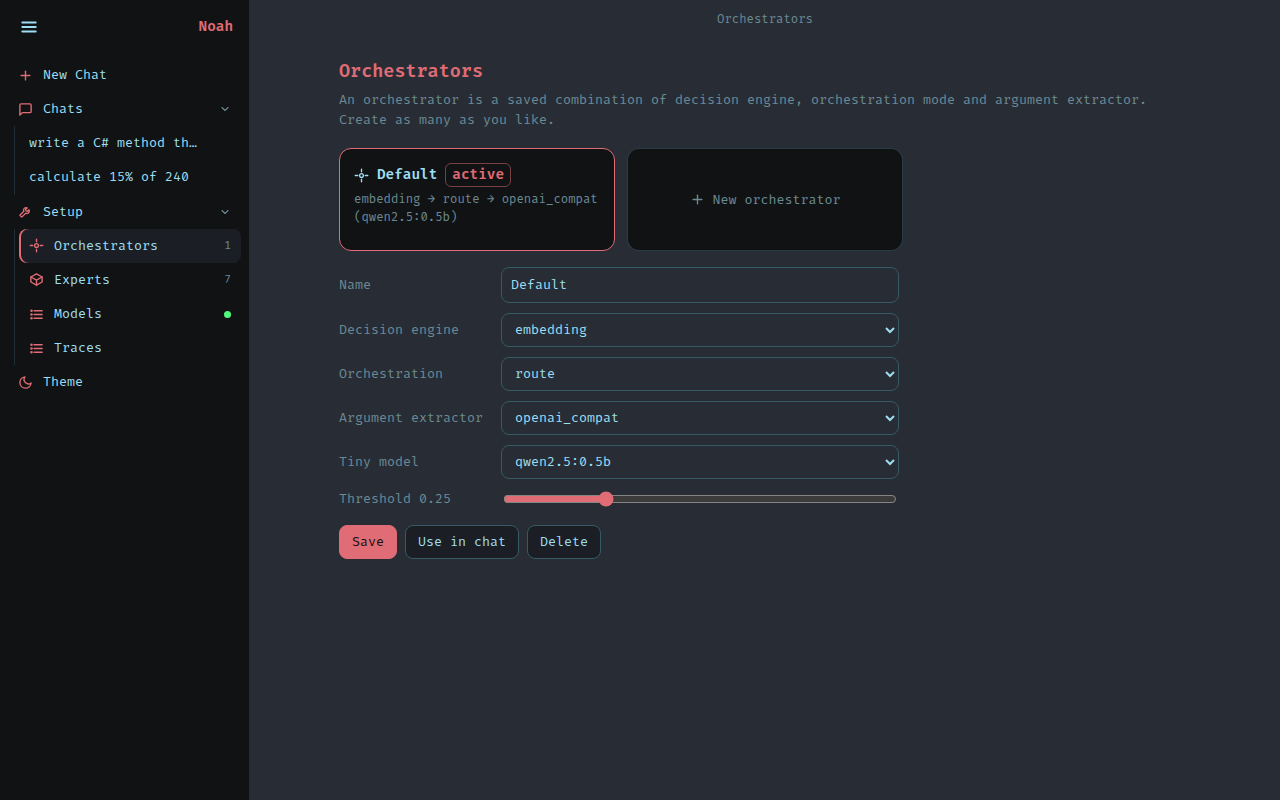
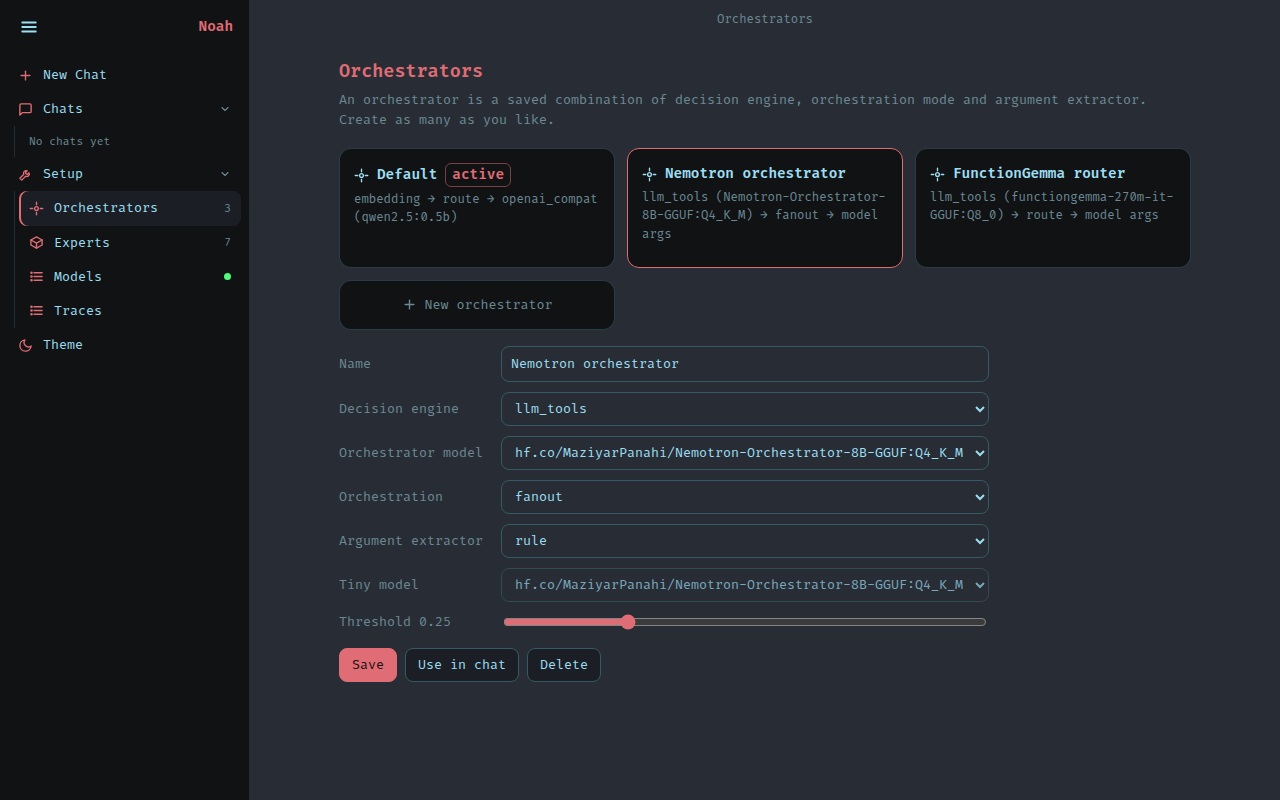
Added Nemotron-Orchestrator-8B and functiongemma-270m

diff --git a/noah/web/static/app.js b/noah/web/static/app.js
@@ -29,6 +29,7 @@ let profiles = [];
 let chats = store.get('chats', []);
 let currentChat = store.get('current', null);
 let activeProfile = store.get('profile', 'Default');
+const shortModel = m => String(m || '').replace(/^hf\.co\//, '').split('/').pop();
 let view = 'chat', editing = null, busy = false;
 
 /* ---------- sidebar ---------- */
@@ -118,7 +119,7 @@ async function send() {
   const m = { text, pending: true }; c.messages.push(m); renderChat(); renderSidebar(); $('title').textContent = c.title;
   try {
     const r = await fetch('/api/ask', { method: 'POST', headers: { 'Content-Type': 'application/json' }, body: JSON.stringify({
-      message: text, engine: p.engine, mode: p.mode, extractor: p.extractor, model: p.model, threshold: p.threshold }) });
+      message: text, engine: p.engine, engine_model: p.engine_model || '', mode: p.mode, extractor: p.extractor, model: p.model, threshold: p.threshold }) });
     if (!r.ok) throw new Error('server error ' + r.status);
     Object.assign(m, await r.json(), { profile: p.name, engine: p.engine });
   } catch (err) { m.error = err.message; }
@@ -133,21 +134,23 @@ function renderOrch() {
   const opts = (items, v) => items.map(i => `<option ${i === v ? 'selected' : ''}>${esc(i)}</option>`).join('');
   $('orchPanel').innerHTML = `<h2>Orchestrators</h2><p class="lede">An orchestrator is a saved combination of decision engine, orchestration mode and argument extractor. Create as many as you like.</p>
     <div class="cards">${profiles.map((x, i) => `<div class="card ${i === editing ? 'sel' : ''}" data-edit="${i}"><h3>${svg('cpu')}${esc(x.name)}${x.name === activeProfile ? '<span class="badge">active</span>' : ''}</h3>
-      <p>${esc(x.engine)} → ${esc(x.mode)} → ${esc(x.extractor)}${x.extractor === 'openai_compat' ? ' (' + esc(x.model) + ')' : ''}</p></div>`).join('')}
+      <p>${esc(x.engine)}${x.engine === 'llm_tools' ? ' (' + esc(shortModel(x.engine_model)) + ')' : ''} → ${esc(x.mode)} → ${x.engine === 'llm_tools' ? 'model args' : esc(x.extractor) + (x.extractor === 'openai_compat' ? ' (' + esc(x.model) + ')' : '')}</p></div>`).join('')}
       <div class="card" data-new style="cursor:pointer;display:flex;align-items:center;justify-content:center;color:var(--muted)">${svg('plus')}&nbsp;New orchestrator</div></div>
     <div class="form">
       <label>Name</label><input id="f-name" value="${esc(p.name)}">
       <label>Decision engine</label><select id="f-engine">${opts(cfg.engines, p.engine)}</select>
+      <label id="l-em" ${p.engine === 'llm_tools' ? '' : 'hidden'}>Orchestrator model</label><select id="f-em" ${p.engine === 'llm_tools' ? '' : 'hidden'}>${opts(cfg.models.length ? cfg.models : [p.engine_model || ''], p.engine_model || '')}</select>
       <label>Orchestration</label><select id="f-mode">${opts(cfg.modes, p.mode)}</select>
       <label>Argument extractor</label><select id="f-extractor">${opts(cfg.extractors, p.extractor)}</select>
-      <label>Tiny model</label><select id="f-model" ${p.extractor === 'openai_compat' ? '' : 'disabled'}>${opts(cfg.models.length ? cfg.models : [p.model], p.model)}</select>
+      <label>Tiny model</label><select id="f-model" ${p.extractor === 'openai_compat' ? '' : 'disabled'}><option value="" ${p.model ? '' : 'selected'}>—</option>${opts(cfg.models.length ? cfg.models : [p.model], p.model)}</select>
       <label>Threshold <span id="f-thv">${p.threshold}</span></label><input type="range" id="f-threshold" min="0" max="1" step="0.05" value="${p.threshold}">
     </div>
     <div class="actions"><button class="btn primary" id="f-save">Save</button><button class="btn" id="f-use">Use in chat</button><button class="btn danger" id="f-del" ${profiles.length < 2 ? 'disabled' : ''}>Delete</button></div>`;
+  $('f-engine').onchange = () => { const on = $('f-engine').value === 'llm_tools'; $('l-em').hidden = $('f-em').hidden = !on; };
   $('f-extractor').onchange = () => { $('f-model').disabled = $('f-extractor').value !== 'openai_compat'; };
   $('f-threshold').oninput = () => { $('f-thv').textContent = $('f-threshold').value; };
   const collect = () => { const old = p.name; Object.assign(p, { name: $('f-name').value.trim() || old, engine: $('f-engine').value, mode: $('f-mode').value,
-    extractor: $('f-extractor').value, model: $('f-model').value, threshold: parseFloat($('f-threshold').value) }); if (activeProfile === old) activeProfile = p.name; store.set('profile', activeProfile); };
+    extractor: $('f-extractor').value, model: $('f-model').value, engine_model: $('f-em').value, threshold: parseFloat($('f-threshold').value) }); if (activeProfile === old) activeProfile = p.name; store.set('profile', activeProfile); };
   $('f-save').onclick = async () => { collect(); await saveProfiles(); renderOrch(); renderSidebar(); };
   $('f-use').onclick = async () => { collect(); activeProfile = p.name; store.set('profile', activeProfile); await saveProfiles(); show('chat'); };
   $('f-del').onclick = async () => { profiles.splice(editing, 1); editing = 0; if (!profiles.find(x => x.name === activeProfile)) activeProfile = profiles[0].name; await saveProfiles(); renderOrch(); renderSidebar(); };
@@ -165,9 +168,16 @@ function renderExperts() {
       <details><summary>examples</summary>${e.examples.map(x => `<div><code>${esc(x)}</code></div>`).join('')}</details></div>`).join('')}</div>`;
 }
 function renderModels() {
-  const used = m => profiles.filter(p => p.extractor === 'openai_compat' && p.model === m).map(p => p.name).join(', ') || '—';
+  const norm = m => { m = String(m || ''); return m && !m.split('/').pop().includes(':') ? m + ':latest' : m; };  // "x" == "x:latest"
+  const orchestrators = m => profiles.flatMap(p => [
+    ...(p.engine === 'llm_tools' && norm(p.engine_model) === norm(m) ? [`${p.name} (orchestrator)`] : []),
+    ...(p.engine !== 'llm_tools' && p.extractor === 'openai_compat' && norm(p.model) === norm(m) ? [`${p.name} (extractor)`] : []),
+  ]);
+  const experts = m => cfg.experts.filter(e => e.kind === 'generate' && norm(e.model) === norm(m)).map(e => e.name);
+  const cell = list => list.length ? list.map(x => `<div>${esc(x)}</div>`).join('') : '<span class="meta">—</span>';
   $('modelsPanel').innerHTML = `<h2>Models</h2><p class="lede">Local models served by Ollama. Pull more with <code>ollama pull &lt;name&gt;</code>; any OpenAI-compatible server works through the same extractor.</p>
-    ${cfg.models.length ? `<table><tr><th>Model</th><th>Used by orchestrators</th></tr>${cfg.models.map(m => `<tr><td>${esc(m)}</td><td>${esc(used(m))}</td></tr>`).join('')}</table>` : '<p class="lede">No local models found. Is Ollama running?</p>'}`;
+    ${cfg.models.length ? `<table><tr><th>Model</th><th>Used by orchestrators</th><th>Used by experts</th></tr>${cfg.models.map(m =>
+      `<tr><td>${esc(m)}</td><td>${cell(orchestrators(m))}</td><td>${cell(experts(m))}</td></tr>`).join('')}</table>` : '<p class="lede">No local models found. Is Ollama running?</p>'}`;
 }
 async function renderTraces() {
   const t = await (await fetch('/api/traces?limit=100')).json();

diff --git a/noah/engines/llm_tools.py b/noah/engines/llm_tools.py
@@ -1,0 +1,71 @@
+from __future__ import annotations
+
+import json
+import re
+
+import httpx
+
+from ..types import Decision, Expert
+
+NONE_TOOL = "none"
+_FG_CALL = re.compile(r"call:(\w+)\{(.*?)(?:\}|<end_function_call>|$)", re.S)  # closing brace may be missing
+_FG_PARAM = re.compile(r"(\w+):(?:<escape>(.*?)<escape>|([^,}]*))", re.S)
+
+
+def expert_tools(experts: dict[str, Expert]) -> list[dict]:
+    """Experts as OpenAI-style tools, plus an explicit 'none' so the model can decline."""
+    tools = []
+    for e in experts.values():
+        params = e.parameters if e.parameters.get("properties") else {
+            "type": "object", "properties": {"request": {"type": "string", "description": "the user's request"}},
+            "required": ["request"]}
+        tools.append({"type": "function", "function": {"name": e.name, "description": e.description, "parameters": params}})
+    tools.append({"type": "function", "function": {
+        "name": NONE_TOOL, "description": "Call this when none of the other tools fits the request.",
+        "parameters": {"type": "object", "properties": {}}}})
+    return tools
+
+
+def parse_functiongemma(text: str) -> list[tuple[str, dict]]:
+    """FunctionGemma emits `call:name{key:<escape>value<escape>,n:3}` as plain text."""
+    calls = []
+    for name, body in _FG_CALL.findall(text or ""):
+        args = {}
+        for key, escaped, bare in _FG_PARAM.findall(body):
+            val = escaped if escaped or not bare.strip() else bare.strip()
+            try:
+                args[key] = json.loads(val) if not escaped and val and val[0] in '-0123456789[{"tf' else val
+            except ValueError:
+                args[key] = val
+        calls.append((name, args))
+    return calls
+
+
+class LLMToolsEngine:
+    """Decision engine + argument extractor in one: a tool-calling LLM picks the expert(s) itself.
+
+    Works with native tool calls (Nemotron-Orchestrator, Qwen, Llama ...) and with FunctionGemma's text format.
+    """
+
+    def __init__(self, base_url: str = "http://localhost:11434/v1", model: str = "", timeout: float = 300.0):
+        self.base_url, self.model, self.timeout = base_url.rstrip("/"), model, timeout
+        self.name = "llm_tools"
+
+    def _calls(self, message: str, experts: dict[str, Expert]) -> list[tuple[str, dict]]:
+        r = httpx.post(f"{self.base_url}/chat/completions", timeout=self.timeout, json={
+            "model": self.model, "temperature": 0, "tools": expert_tools(experts),
+            "messages": [{"role": "user", "content": message}]})
+        r.raise_for_status()
+        msg = r.json()["choices"][0]["message"]
+        native = [(c["function"]["name"], c["function"]["arguments"]) for c in msg.get("tool_calls") or []]
+        if native:
+            return [(n, json.loads(a) if isinstance(a, str) else (a or {})) for n, a in native]
+        return parse_functiongemma(msg.get("content") or "")
+
+    def decide(self, message: str, experts: dict[str, Expert]) -> list[Decision]:
+        chosen: dict[str, Decision] = {}
+        for rank, (name, args) in enumerate(self._calls(message, experts)):
+            if name in experts and name not in chosen:
+                chosen[name] = Decision(name, round(1.0 - rank * 0.01, 2), args or None)
+        rest = [Decision(n, 0.0) for n in experts if n not in chosen]
+        return [*chosen.values(), *rest]

diff --git a/tests/test_llm_tools.py b/tests/test_llm_tools.py
@@ -1,0 +1,66 @@
+import asyncio
+
+import httpx
+import pytest
+
+from noah.engines.llm_tools import LLMToolsEngine, expert_tools, parse_functiongemma
+from noah.extractors import make_extractor
+from noah.orchestrator import Orchestrator
+from noah.registry import load_experts
+
+
+@pytest.fixture(scope="module")
+def experts():
+    return load_experts("experts")
+
+
+def fake_post(content=None, tool_calls=None):
+    def post(url, json=None, timeout=None):
+        body = {"choices": [{"message": {"content": content, "tool_calls": tool_calls}}]}
+        return httpx.Response(200, json=body, request=httpx.Request("POST", url))
+    return post
+
+
+def test_parse_functiongemma_forms():
+    assert parse_functiongemma("call:weather{city:<escape>Paris<escape>") == [("weather", {"city": "Paris"})]  # truncated
+    assert parse_functiongemma("<start_function_call>call:calc{expression:<escape>1+2<escape>}<end_function_call>") == [
+        ("calc", {"expression": "1+2"})]
+    assert parse_functiongemma("call:files{query:<escape>a<escape>,limit:5}") == [("files", {"query": "a", "limit": 5})]
+    assert parse_functiongemma("Sorry, I cannot help") == []
+
+
+def test_tools_include_none_and_synthesize_request_param(experts):
+    tools = {t["function"]["name"]: t["function"] for t in expert_tools(experts)}
+    assert "none" in tools
+    assert "request" in tools["csharp"]["parameters"]["properties"]  # generate experts have no params of their own
+    assert "city" in tools["weather"]["parameters"]["properties"]
+
+
+def test_engine_native_tool_calls_and_none(experts, monkeypatch):
+    calls = [{"function": {"name": "weather", "arguments": '{"city": "Oslo"}'}}]
+    monkeypatch.setattr(httpx, "post", fake_post(tool_calls=calls))
+    d = LLMToolsEngine(model="m").decide("weather in Oslo", experts)
+    assert d[0].expert == "weather" and d[0].args == {"city": "Oslo"} and d[0].score == 1.0
+    assert all(x.score == 0.0 for x in d[1:]) and len(d) == len(experts)
+
+    monkeypatch.setattr(httpx, "post", fake_post(tool_calls=[{"function": {"name": "none", "arguments": "{}"}}]))
+    assert all(x.score == 0.0 for x in LLMToolsEngine(model="m").decide("joke", experts))
+
+
+def test_engine_functiongemma_text_format(experts, monkeypatch):
+    monkeypatch.setattr(httpx, "post", fake_post(content="<start_function_call>call:calc{expression:<escape>2+2<escape>}"))
+    d = LLMToolsEngine(model="m").decide("2+2", experts)
+    assert d[0].expert == "calc" and d[0].args == {"expression": "2+2"}
+
+
+def test_orchestrator_uses_model_supplied_args_and_skips_extractor(experts, monkeypatch):
+    monkeypatch.setattr(httpx, "post", fake_post(tool_calls=[{"function": {"name": "calc", "arguments": '{"expression": "6*7"}'}}]))
+    orch = Orchestrator(experts, LLMToolsEngine(model="m"), make_extractor("rule"))
+    out = asyncio.run(orch.ask("whatever the user typed"))
+    assert out[0].expert == "calc" and out[0].extractor == "orchestrator" and "42" in out[0].output
+
+
+def test_no_expert_called_gives_no_match(experts, monkeypatch):
+    monkeypatch.setattr(httpx, "post", fake_post(content="I cannot help with that"))
+    orch = Orchestrator(experts, LLMToolsEngine(model="m"), make_extractor("rule"))
+    assert asyncio.run(orch.ask("tell me a joke"))[0].expert == "no_match"

diff --git a/noah/server.py b/noah/server.py
@@ -23,8 +23,18 @@ OLLAMA = os.environ.get("NOAH_LLM_URL", "http://localhost:11434")
 app = FastAPI(title="noah")
 app.mount("/static", StaticFiles(directory=WEB / "static"), name="static")
 PROFILES = Path(os.environ.get("NOAH_PROFILES", "data/profiles.json"))
-DEFAULT_PROFILES = [{"name": "Default", "engine": "embedding", "mode": "route", "extractor": "openai_compat",
-                     "model": "qwen2.5:0.5b", "threshold": 0.25}]
+DEFAULT_PROFILES = [
+    # bge-small cosine scores: in-domain >= 0.65, off-topic <= 0.61 on our test set, so 0.63 declines chit-chat.
+    {"name": "Default", "engine": "embedding", "mode": "route", "extractor": "openai_compat",
+     "model": "qwen2.5:0.5b", "threshold": 0.63},
+    # Example LLM orchestrators: the model picks the expert AND its arguments by tool calling.
+    # Pull first:  ollama pull hf.co/MaziyarPanahi/Nemotron-Orchestrator-8B-GGUF:Q4_K_M   (5 GB, slow on small GPUs)
+    {"name": "Nemotron orchestrator", "engine": "llm_tools", "mode": "fanout", "extractor": "rule", "model": "",
+     "engine_model": "hf.co/MaziyarPanahi/Nemotron-Orchestrator-8B-GGUF:Q4_K_M", "threshold": 0.25},
+    # Pull first:  ollama pull hf.co/ggml-org/functiongemma-270m-it-GGUF:Q8_0   (300 MB; needs fine-tuning to be reliable)
+    {"name": "FunctionGemma router", "engine": "llm_tools", "mode": "route", "extractor": "rule", "model": "",
+     "engine_model": "hf.co/ggml-org/functiongemma-270m-it-GGUF:Q8_0", "threshold": 0.25},
+]
 experts = load_experts(os.environ.get("NOAH_EXPERTS", "experts"))
 trace = TraceStore()
 _engines: dict[str, object] = {}  # engines can be expensive to load (embedding), so cache them
@@ -33,6 +43,7 @@ _engines: dict[str, object] = {}  # engines can be expensive to load (embedding)
 class AskRequest(BaseModel):
     message: str
     engine: str = "keyword"
+    engine_model: str = ""
     mode: str = "route"
     extractor: str = "rule"
     model: str = ""
@@ -56,7 +67,7 @@ def config():
     except Exception:
         models = []
     return {
-        "engines": ["keyword", "embedding"],
+        "engines": ["keyword", "embedding", "llm_tools"],
         "modes": ["route", "fanout"],
         "extractors": ["rule", "openai_compat"],
         "models": models,
@@ -68,10 +79,12 @@ def config():
 
 @app.post("/api/ask")
 async def ask(req: AskRequest):
-    if req.engine not in _engines:
-        _engines[req.engine] = make_engine(req.engine)
+    key = f"{req.engine}:{req.engine_model}"
+    if key not in _engines:
+        kw = {"base_url": f"{OLLAMA}/v1", "model": req.engine_model} if req.engine == "llm_tools" else {}
+        _engines[key] = make_engine(req.engine, **kw)
     kw = {"base_url": f"{OLLAMA}/v1", "model": req.model} if req.extractor == "openai_compat" else {}
-    orch = Orchestrator(experts, _engines[req.engine], make_extractor(req.extractor, **kw), trace,
+    orch = Orchestrator(experts, _engines[key], make_extractor(req.extractor, **kw), trace,
                         mode=req.mode, threshold=req.threshold, llm_url=f"{OLLAMA}/v1")
     results, decisions = await orch.ask_traced(req.message)
     return {"results": [asdict(r) for r in results], "decisions": [asdict(d) for d in decisions]}

diff --git a/noah/orchestrator.py b/noah/orchestrator.py
@@ -29,7 +29,7 @@ class Router(Executor):
 
     @handler
     async def route(self, message: str, ctx: WorkflowContext[Routed]) -> None:
-        decisions = self.engine.decide(message, self.experts)
+        decisions = await asyncio.to_thread(self.engine.decide, message, self.experts)  # LLM engines block for seconds
         self.seen["decisions"] = decisions
         ranked = [d for d in decisions if d.score >= self.threshold]
         if self.mode == "fanout":
@@ -61,7 +61,11 @@ class ExpertNode(Executor):
                     out = re.sub(pattern, "", out, flags=re.S | re.I)
                 out = re.sub(r"\n{3,}", "\n\n", out).strip()
             else:
-                args = await asyncio.to_thread(self.extractor.extract, routed.message, self.expert)
+                supplied = next((d.args for d in routed.decisions if d.expert == self.expert.name and d.args), None)
+                if supplied:  # an LLM orchestrator already produced the arguments: skip the extractor model call
+                    args, extractor = supplied, "orchestrator"
+                else:
+                    args = await asyncio.to_thread(self.extractor.extract, routed.message, self.expert)
                 validate_args(args, self.expert.parameters)
                 out = await asyncio.to_thread(self.expert.run, args)
         except Exception as e:

diff --git a/scripts/bench_orchestrators.py b/scripts/bench_orchestrators.py
@@ -1,0 +1,31 @@
+"""Score LLM tool-calling orchestrators on routing: python scripts/bench_orchestrators.py <ollama-model> [...]"""
+import sys
+import time
+
+from noah.engines.llm_tools import LLMToolsEngine
+from noah.registry import load_experts
+from tests.test_routing import LABELLED
+
+NEGATIVES = ["tell me a joke", "who won the world cup in 2010", "what's the capital of Australia", "hello there"]
+experts = load_experts("experts")
+cases = [(m, w) for m, w in LABELLED] + [(m, None) for m in NEGATIVES]
+
+for model in sys.argv[1:]:
+    eng = LLMToolsEngine(model=model)
+    ok, wrong, times = 0, [], []
+    for msg, want in cases:
+        t = time.time()
+        try:
+            d = eng.decide(msg, experts)
+            got = d[0].expert if d[0].score > 0 else None
+            args = d[0].args if got else None
+        except Exception as e:
+            got, args = f"ERR {type(e).__name__}", None
+        times.append(time.time() - t)
+        if got == want:
+            ok += 1
+        else:
+            wrong.append((msg, want, got, args))
+    print(f"\n{model}: {ok}/{len(cases)} correct, median {sorted(times)[len(times)//2]:.1f}s, max {max(times):.1f}s", flush=True)
+    for msg, want, got, args in wrong:
+        print(f"   miss: {msg!r}: wanted {want}, got {got} {args or ''}", flush=True)

diff --git a/tests/test_routing.py b/tests/test_routing.py
@@ -82,3 +82,13 @@ def test_bad_args_reported_not_raised(experts):
     orch = Orchestrator(experts, make_engine("keyword"), make_extractor("rule"), threshold=0.0)
     out = asyncio.run(orch.ask("weather"))  # no city -> rule extractor returns {} -> validation error
     assert out[0].error and "city" in out[0].error
+
+
+OFF_TOPIC = ["tell me a joke", "who won the world cup in 2010", "what's the capital of Australia", "hello there"]
+
+
+def test_embedding_declines_off_topic_at_default_threshold(experts):
+    """The default profile's threshold (0.63) must separate chit-chat from every labelled in-domain message."""
+    engine = make_engine("embedding")
+    assert all(engine.decide(m, experts)[0].score >= 0.63 for m, _ in LABELLED)
+    assert all(engine.decide(m, experts)[0].score < 0.63 for m in OFF_TOPIC)

diff --git a/noah/engines/__init__.py b/noah/engines/__init__.py
@@ -11,4 +11,8 @@ def make_engine(name: str, **kwargs) -> DecisionEngine:
         from .embedding import EmbeddingEngine
 
         return EmbeddingEngine(**kwargs)
+    if name == "llm_tools":
+        from .llm_tools import LLMToolsEngine
+
+        return LLMToolsEngine(**kwargs)
     raise ValueError(f"unknown decision engine: {name}")

diff --git a/noah/types.py b/noah/types.py
@@ -30,6 +30,7 @@ class Expert:
 class Decision:
     expert: str
     score: float
+    args: dict[str, Any] | None = None  # set when an LLM orchestrator already chose the arguments
 
 
 @dataclass

diff --git a/README.md b/README.md
@@ -67,11 +67,37 @@ python -m noah.cli ask "calculate 15% of 240" --engine embedding
 
 | Slot | Choices today | Add your own |
 |---|---|---|
-| Decision engine | `keyword`, `embedding` | implement `DecisionEngine` in `noah/engines/` |
+| Decision engine | `keyword`, `embedding`, `llm_tools` | implement `DecisionEngine` in `noah/engines/` |
 | Orchestrator | `route` (best expert), `fanout` (several) | `noah/orchestrator.py` |
 | Argument extractor | `rule`, `openai_compat` (any small model, schema-constrained JSON) | `noah/extractors/` |
 
 Orchestrator profiles (a saved combination of the above) are created in the UI and stored in `data/profiles.json`.
+
+## LLM orchestrators (Nemotron, FunctionGemma)
+
+Besides score-based engines (`keyword`, `embedding`), the `llm_tools` engine hands the experts to a tool-calling
+model as tools. The model picks the expert **and** its arguments in one call (with an explicit "none" tool so it can
+decline), so no separate extractor model runs. Two example profiles ship next to `Default`:
+
+```bash
+ollama pull hf.co/MaziyarPanahi/Nemotron-Orchestrator-8B-GGUF:Q4_K_M   # 5 GB
+ollama pull hf.co/ggml-org/functiongemma-270m-it-GGUF:Q8_0             # 300 MB
+```
+
+Measured on this repo's 28 labelled messages + 4 off-topic ones (`scripts/bench_orchestrators.py`), GTX 1070 8 GB:
+
+| Orchestrator | Routes correctly | Declines off-topic | Time per decision |
+|---|---|---|---|
+| `embedding` (Default, threshold 0.63) | 28/28 | 4/4 | ~5 ms |
+| Nemotron-Orchestrator-8B Q4_K_M | 19/28 | 4/4 | median 9 s (about 50 s on first load) |
+| FunctionGemma 270M Q8_0 | 9/28 | 3/4 | median 0.6 s |
+
+Read this as: the zero-shot LLM orchestrators are examples, not recommendations. Nemotron picks arguments well but
+often answers directly instead of calling an expert, and is slow on a small GPU. FunctionGemma is meant to be
+fine-tuned (the traces are the data for that). The embedding engine wins on this small, easy test set, but its
+off-topic margin is thin (0.61 vs 0.65), so re-tune the threshold when you add experts.
+Check each model's license before use: a third-party listing says Nemotron-Orchestrator-8B is research-only, and
+FunctionGemma is under the Gemma terms.
 
 ## Adding an expert
 

diff --git a/PLAN.md b/PLAN.md
@@ -94,3 +94,7 @@ user message
   Not verified: real Docker (not installed here), NVIDIA GPU overlay, `podman compose` with the docker-compose provider.
   Bugs found while verifying: podman-compose pod ignored keep-id (fixed with `x-podman: in_pod: false`);
   uvicorn needs `watchfiles` for `--reload-include`; trace-write failure no longer fails requests.
+- LLM orchestrators added (`llm_tools` engine; Nemotron-Orchestrator-8B and FunctionGemma example profiles).
+  28 labelled + 4 off-topic: embedding 28/28 & 4/4 (only after threshold 0.25 -> 0.63; before, it declined nothing),
+  Nemotron 19/28 & 4/4 (median 9 s), FunctionGemma 9/28 & 3/4 (0.6 s). Router now calls the engine in a thread.
+  Caveat: the Nemotron run overlapped with other GPU work (one 300 s timeout), so its latency is pessimistic.
